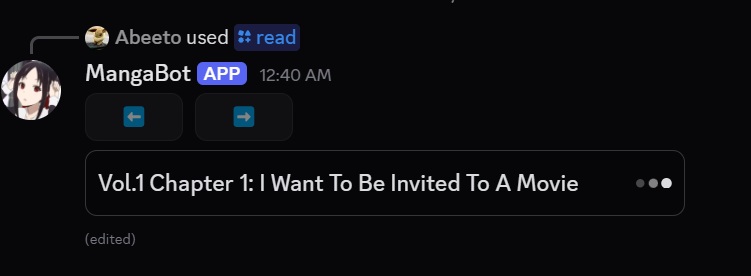
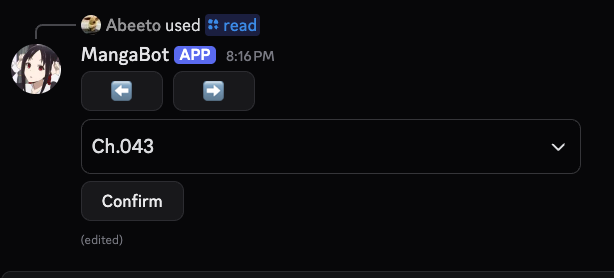
update readmme and assets

diff --git a/README.md b/README.md
@@ -4,15 +4,22 @@ A Discord bot for browsing and reading manga directly within Discord using data 
 
 ## Usage
 
-- 🔍 **Search for manga** through the MangaPark database.
+- 🔍 **Search for manga** through the MangaPark database
 - 📚 **Browse chapters** from the search results
 - 📖 **Read manga pages** directly in Discord
+- 🔖 **Bookmark mangas** for future reading
 
 ## Screenshots
 
 | Select Manga | Select Chapter | Read Manga |
 |--------------|----------------|------------|
 | ![Select manga](assets/selectManga.png) | ![Select chapter](assets/selectChapter.png) | ![Read manga](assets/readManga.png) |
+
+<!-- Add an empty line to separate tables -->
+
+| Look at Bookmarks | 
+|-------------------------|
+<img src="assets/referBookmarks.png" alt="Refer to Past Bookmarks" width="200" />
 
 ## Project Structure
 
